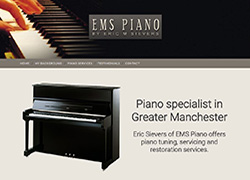
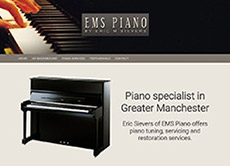
Finished nav, image optimisation

diff --git a/css/custom.css b/css/custom.css
@@ -282,8 +282,6 @@ text-align:center;
 margin:0 auto;
 }
 .div33width img {
-width:100%;
-height:auto;
 max-width:260px;
 margin:0 auto;
 display:block;
